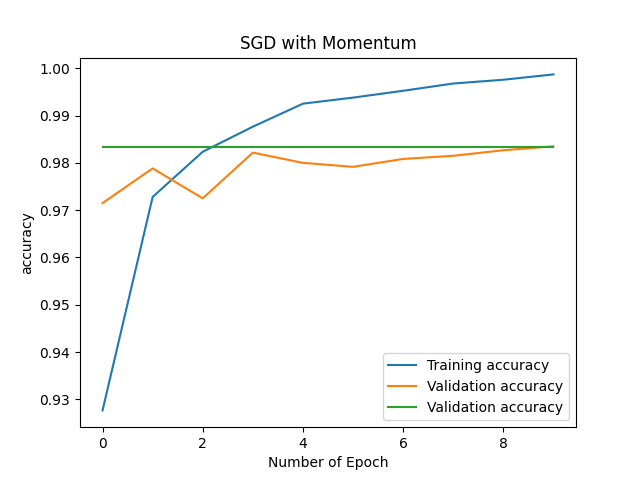
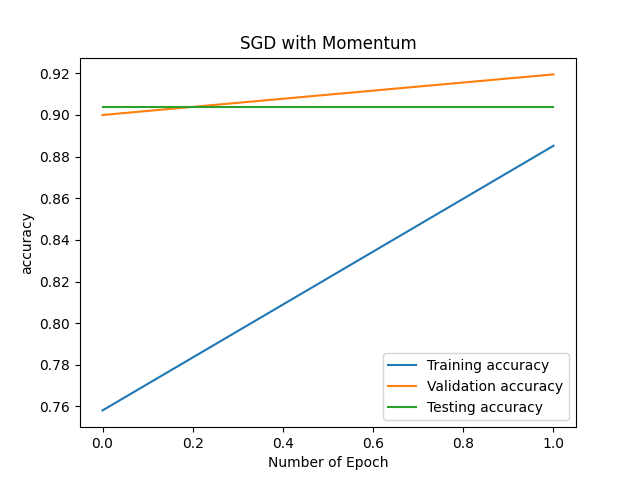
complete 2.1 2.2 - hyperparameter tuning

diff --git a/PA4/main.py b/PA4/main.py
@@ -7,6 +7,7 @@ import mnist
 import time
 import pickle
 import matplotlib
+import itertools as it
 from numpy import random
 from tensorflow import keras
 from tensorflow.keras import datasets, layers, models
@@ -192,7 +193,7 @@ def train_fully_connected_bn_sgd(Xs, Ys, d1, d2, alpha, beta, B, Epochs):
 # returns   a tuple of
 #   model       the trained model (should be of type tensorflow.python.keras.engine.sequential.Sequential)
 #   history     the history of training returned by model.fit (should be of type tensorflow.python.keras.callbacks.History)
-def train_CNN_sgd(Xs, Ys, alpha, rho1, rho2, B, Epochs, d1, d2):
+def train_CNN_sgd(Xs, Ys, alpha, rho1, rho2, B, Epochs):
     # TODO students should implement this
     print(Xs.shape)
     input_shape = (28, 28, 1)
@@ -256,9 +257,9 @@ def generatePlot(algorithm_identifier, history, test_err, test_acc, names):
     test_err = [test_err for _ in range(len(history["loss"]))]
     plt.plot(range(len(history["loss"])), history["loss"], label="Training loss")
     plt.plot(
-        range(len(history["val_loss"])), history["val_loss"], label="Training loss"
+        range(len(history["val_loss"])), history["val_loss"], label="Validation loss"
     )
-    plt.plot(range(len(history["loss"])), test_err, label="Training loss")
+    plt.plot(range(len(history["loss"])), test_err, label="Testing loss")
     plt.title(names[algorithm_identifier])
     plt.xlabel("Number of Epoch")
     plt.ylabel("loss")
@@ -271,7 +272,7 @@ def generatePlot(algorithm_identifier, history, test_err, test_acc, names):
     plt.plot(
         range(len(history["val_acc"])), history["val_acc"], label="Validation accuracy"
     )
-    plt.plot(range(len(history["val_acc"])), test_acc, label="Validation accuracy")
+    plt.plot(range(len(history["val_acc"])), test_acc, label="Testing accuracy")
     plt.title(names[algorithm_identifier])
     plt.xlabel("Number of Epoch")
     plt.ylabel("accuracy")
@@ -279,9 +280,15 @@ def generatePlot(algorithm_identifier, history, test_err, test_acc, names):
     plt.savefig(figures_dir + algorithm_identifier + "_acc" + ".png")
     plt.close()
 
+def print_config(config):
+    print("Current Configuration:")
+    print("~" * 15)
+    for k in config:
+        print(f"{k}: {config[k]}")
+    print("~" * 15)
 
 def grid_search(
-    tr_data, te_data, hyper_params, algo_args, algo_fn, algo_id, tuning_basis=""
+    tr_data, te_data, hyper_params, algo_args, algo_fn, algo_id, names, tuning_basis=""
 ):
     train_x, train_y = tr_data
     test_x, test_y = te_data
@@ -293,18 +300,20 @@ def grid_search(
 
     print("\n" + DIVIDER)
     print(DIVIDER)
-    print(f"Performing hyperparameter tuning for {algo_id} ...")
+    print(f"Performing hyperparameter tuning for {names[algo_id]} ...")
     for config in configs:
         print_config(config)
         for k in config:
             algo_args[k] = config[k]
         model, history, te_l, te_acc, _ = run_algo(
-            algo_id, algo_fn, algo_args, test_x, test_y
+            algo_id, algo_fn, algo_args, test_x, test_y, names
         )
         config["te_l"] = te_l
         config["te_acc"] = te_acc
+        config["tr_loss"] = history.history["loss"][-1]
+        config["val_loss"] = history.history["val_loss"][-1]
 
-    print(f"Tuning for {algo_id} complete.")
+    print(f"Tuning for {names[algo_id]} complete.")
     print(DIVIDER)
     print(DIVIDER)
 
@@ -317,7 +326,7 @@ def grid_search(
 def choose_best(dict_list, metric="", find_max=False):
     fn = min if not find_max else max
     if not metric:
-        return fn(dict_list, key=lambda x: (x["tr_loss"] + x["tr_err"]))
+        return fn(dict_list, key=lambda x: (x["val_loss"]))
     return fn(dict_list, key=lambda x: x[metric])
 
 
@@ -325,13 +334,21 @@ if __name__ == "__main__":
     (Xs_tr, Ys_tr, Xs_te, Ys_te) = load_MNIST_dataset()
 
     DIVIDER = "#" * 20
+    
+    names = {
+        "sgd_no_momen": "SGD with no Momentum",
+        "sgd_momen": "SGD with Momentum",
+        "adam": "SGD with Adam",
+        "sgd_bn": "SGD with Batch Normalisation",
+        "cnn": "CNN with Adams",
+    }
     basic_args = {
         "Xs": Xs_tr,
         "Ys": Ys_tr,
         "d1": 1024,
         "d2": 256,
         "alpha": 0.1,
-        "Epochs": 10,
+        "Epochs": 2,
         "B": 128,
     }
     sgd_no_momen_args = copy.copy(basic_args)
@@ -348,32 +365,47 @@ if __name__ == "__main__":
     sgd_bn_args = copy.copy(basic_args)
     sgd_bn_args["alpha"] = 0.001
     sgd_bn_args["beta"] = 0.9
-    names = {
-        "sgd_no_momen": "SGD with no Momentum",
-        "sgd_momen": "SGD with Momentum",
-        "adam": "SGD with Adam",
-        "sgd_bn": "SGD with Batch Normalisation",
-        "cnn": "CNN with Adams",
-    }
+
+    cnn_args = copy.copy(adam_args)
+    del cnn_args["d1"]
+    del cnn_args["d2"]
+    
     algorithms = {
         "sgd_no_momen": (train_fully_connected_sgd, sgd_no_momen_args),
         "sgd_momen": (train_fully_connected_sgd, sgd_momen_args),
         "adam": (train_fully_connected_adam, adam_args),
         "sgd_bn": (train_fully_connected_bn_sgd, sgd_bn_args),
-        "cnn": (train_CNN_sgd, adam_args),
+        "cnn": (train_CNN_sgd, cnn_args),
     }
 
     # Experiments
-    for algorithm in algorithms:
-        model, history, te_l, te_acc, time_taken = run_algo(
-            algorithm,
-            algorithms[algorithm][0],
-            algorithms[algorithm][1],
-            Xs_te,
-            Ys_te,
-            names,
-        )
-        # Generate Plots & Report here: Take a dict and unpack dict in plotting
-        # te_l and te_acc are scalars, create an arr of len = len(x-axis marks) where each elem in the arr is the same value
-        print(f"Time taken to run {algorithm}: {time_taken}")
-        print("History:", history.history)
+    # for algorithm in algorithms:
+    #     model, history, te_l, te_acc, time_taken = run_algo(
+    #         algorithm,
+    #         algorithms[algorithm][0],
+    #         algorithms[algorithm][1],
+    #         Xs_te,
+    #         Ys_te,
+    #         names,
+    #     )
+    #     # Generate Plots & Report here: Take a dict and unpack dict in plotting
+    #     # te_l and te_acc are scalars, create an arr of len = len(x-axis marks) where each elem in the arr is the same value
+    #     print(f"Time taken to run {algorithm}: {time_taken}")
+    #     print("History:", history.history)
+
+    # Hyperparameter tuning for SGD with Momentum
+    # hyper_params = {"alpha" : [0.99, 0.3, 0.1, 0.03, 0.01, 0.003, 0.001]}
+
+    # sgd_momtm_tune = grid_search((Xs_tr, Ys_tr), (Xs_te, Ys_te), hyper_params, algorithms["sgd_momen"][1], algorithms["sgd_momen"][0], "sgd_momen", names)
+    # print("Best hyperparam combo for SGD with momentum is:")
+    # print(sgd_momtm_tune)
+
+    # Hyperparameter tuning for SGD without Momentum
+    hyper_params = {
+        "alpha" : [0.3, 0.1, 0.01, 0.001],
+        "d1" : [64, 256, 512],
+        "d2" : [32, 128, 256],
+    }
+    sgd_tune = grid_search((Xs_tr, Ys_tr), (Xs_te, Ys_te), hyper_params, algorithms["sgd_no_momen"][1], algorithms["sgd_no_momen"][0], "sgd_no_momen", names)
+    print("Best hyperparam combo for SGD without momentum is:")
+    print(sgd_tune)
